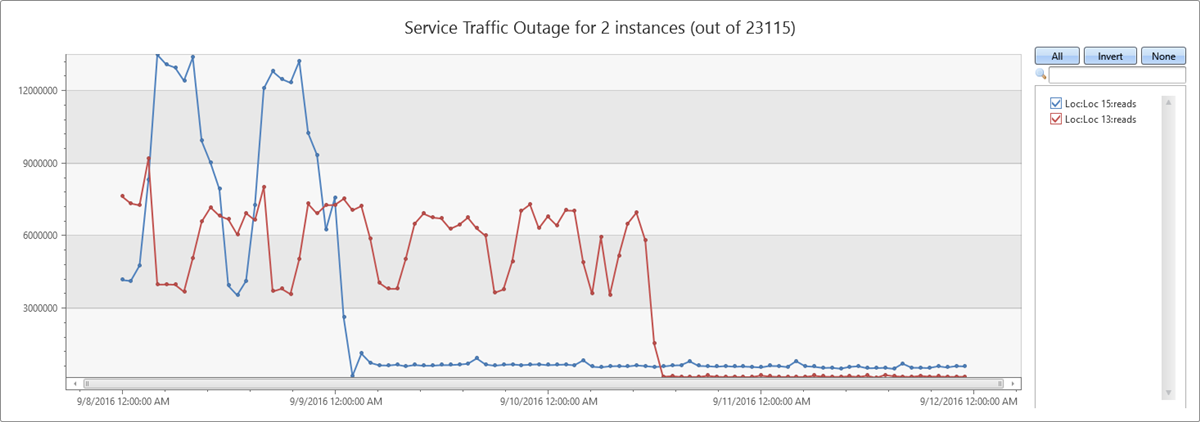
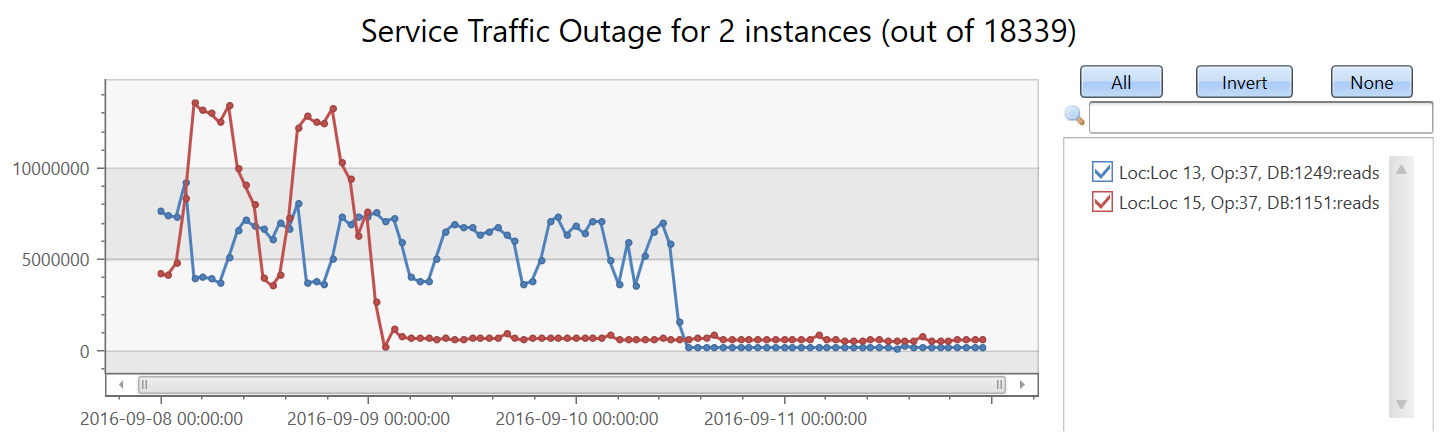
updated query, results and figure

diff --git a/data-explorer/time-series-analysis.md b/data-explorer/time-series-analysis.md
@@ -220,9 +220,9 @@ demo_many_series1
 |   |   |
 | --- | --- |
 |   | Count |
-|   | 23115 |
+|   | 18339 |
 
-Now, we're going to create a set of 23115 time series of the read count metric. We add the `by` clause to the make-series statement, apply linear regression, and select the top two time series that had the most significant decreasing trend:
+Now, we're going to create a set of 18339 time series of the read count metric. We add the `by` clause to the make-series statement, apply linear regression, and select the top two time series that had the most significant decreasing trend:
 
 ```kusto
 let min_t = toscalar(demo_many_series1 | summarize min(TIMESTAMP));  
@@ -231,7 +231,7 @@ demo_many_series1
 | make-series reads=avg(DataRead) on TIMESTAMP in range(min_t, max_t, 1h) by Loc, Op, DB
 | extend (rsquare, slope) = series_fit_line(reads)
 | top 2 by slope asc 
-| render timechart with(title='Service Traffic Outage for 2 instances (out of 23115)')
+| render timechart with(title='Service Traffic Outage for 2 instances (out of 18339)')
 ```
 
 ![Time series top two](media/time-series-analysis/time-series-top-2.png)
@@ -254,6 +254,6 @@ demo_many_series1
 |   | Loc 15 | 37 | 1151 | -102743.910227889 |
 |   | Loc 13 | 37 | 1249 | -86303.2334644601 |
 
-In less than two minutes, ADX analyzed over 20,000 time series and detected two abnormal time series in which the read count suddenly dropped.
+In less than two minutes, ADX analyzed close to 20,000 time series and detected two abnormal time series in which the read count suddenly dropped.
 
 These advanced capabilities combined with ADX fast performance supply a unique and powerful solution for time series analysis.
